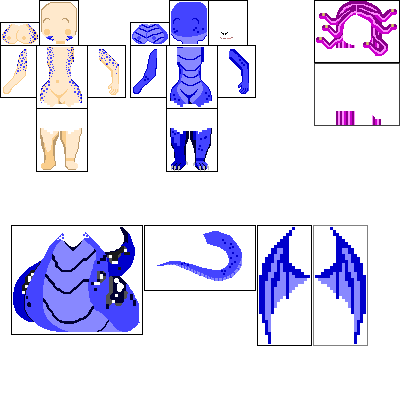
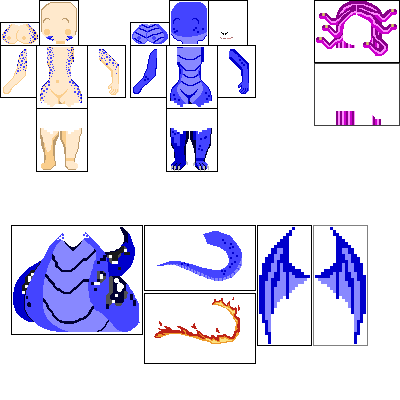
harpy & salamander tail; support for origin shift for whole model

diff --git a/cocspred/spred.js b/cocspred/spred.js
@@ -324,15 +324,17 @@ var spred;
                     p0 = p0.then(ctx2d => {
                         let sprite = this.model.sprite(part.name);
                         if (part.name in this._cache) {
-                            drawImage(this._cache[part.name], x, y, w, h, ctx2d, part.dx + sprite.dx, part.dy + sprite.dy, this.model.width, this.model.height, z);
+                            drawImage(this._cache[part.name], x, y, w, h, ctx2d, part.dx + sprite.dx - this.model.originX, part.dy + sprite.dy - this.model.originY, this.model.width, this.model.height, z);
                             return ctx2d;
                         }
                         else {
                             let idata = sprite.ctx2d.getImageData(x, y, w, h);
                             idata = colormap(idata, cmap);
                             return createImageBitmap(idata).then(bmp => {
-                                this._cache[part.name] = bmp;
-                                drawImage(bmp, x, y, w, h, ctx2d, part.dx + sprite.dx, part.dy + sprite.dy, this.model.width, this.model.height, z);
+                                if (x == 0 && y == 0 && w == this.model.width && h == this.model.height) {
+                                    this._cache[part.name] = bmp;
+                                }
+                                drawImage(bmp, x, y, w, h, ctx2d, part.dx + sprite.dx - this.model.originX, part.dy + sprite.dy - this.model.originY, this.model.width, this.model.height, z);
                                 return ctx2d;
                             });
                         }
@@ -537,6 +539,8 @@ var spred;
             let xmodel = $(src).children('model');
             this.name = xmodel.attr('name');
             this.dir = spred.basedir + xmodel.attr('dir');
+            this.originX = parseInt(xmodel.attr('originX') || '0');
+            this.originY = parseInt(xmodel.attr('originY') || '0');
             this.width = parseInt(xmodel.attr('width'));
             this.height = parseInt(xmodel.attr('height'));
             this.spritesheets = [];
@@ -987,6 +991,18 @@ var spred;
                 'torso/human'
             ]);
             addCompositeView([
+                'ears_bg/elfin', 'ears/elfin',
+                'eyes/human',
+                'hair/feather', 'hair_bg/feather',
+                'head/human', 'face/human_fang',
+                'breasts/D',
+                'arms/harpy', 'arms_bg/harpy',
+                'legs/harpy',
+                'torso/human',
+                'wings/feather_large',
+                'tail/harpy'
+            ]);
+            addCompositeView([
                 'ears/orca',
                 'eyes/orca',
                 'hair/0', 'hair_bg/0',
@@ -1037,7 +1053,7 @@ var spred;
                 'arms/scales', 'arms_bg/scales',
                 'legs/scales',
                 'torso/scales',
-                'tail/reptile',
+                'tail/reptile', 'tail_fg/reptile_fire',
                 'wings/scales_right',
                 'wings_bg/scales_left',
             ]);

diff --git a/cocspred/spred.html b/cocspred/spred.html
@@ -61,20 +61,20 @@
 					Nothing
 				</label>
 			</div>
-			<div class="form-check">
+			<div class="form-check disabled">
 				<label for="lmba-erase" class="form-check-label">
-					<input type="radio" id="lmba-erase" name="lmb-action" value="erase">
+					<input type="radio" id="lmba-erase" name="lmb-action" value="erase" disabled>
 					Erase
 				</label>
 			</div>
-			<div class="form-check">
+			<div class="form-check disabled">
 				<label for="lmba-keycolor" class="form-check-label">
-					<input type="radio" id="lmba-keycolor" name="lmb-action" value="keycolor">
+					<input type="radio" id="lmba-keycolor" name="lmb-action" value="keycolor" disabled>
 					Key color...
 				</label>
 			</div>
 			<div style="padding-left:calc(1.25rem + 17px)">
-				<select id="lmb-color" class="form-control">
+				<select id="lmb-color" class="form-control" disabled>
 					<option value="#FF88FF">hair lighten(25)</option>
 					<option value="#CC00CC">hair</option>
 				</select>
